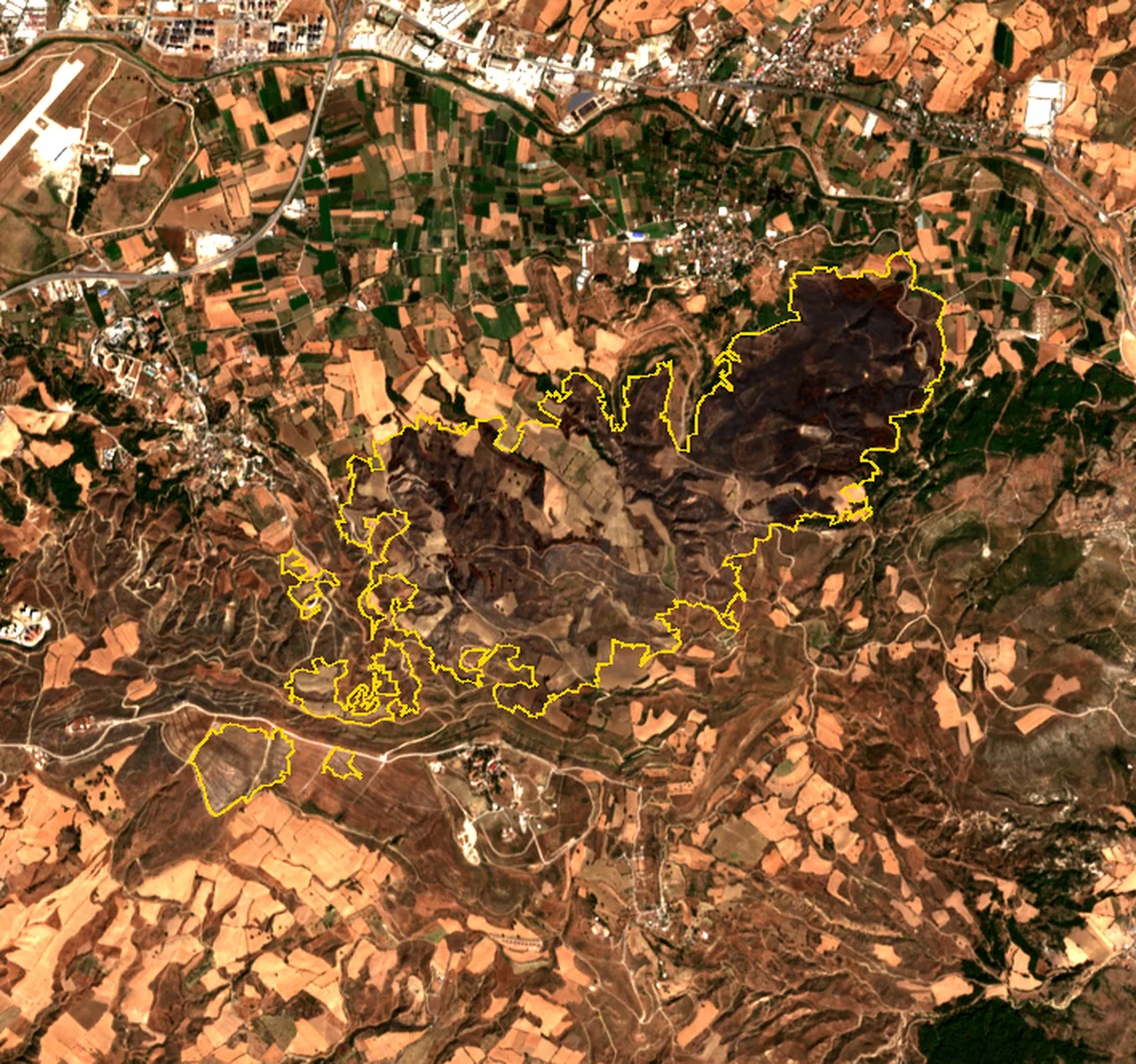
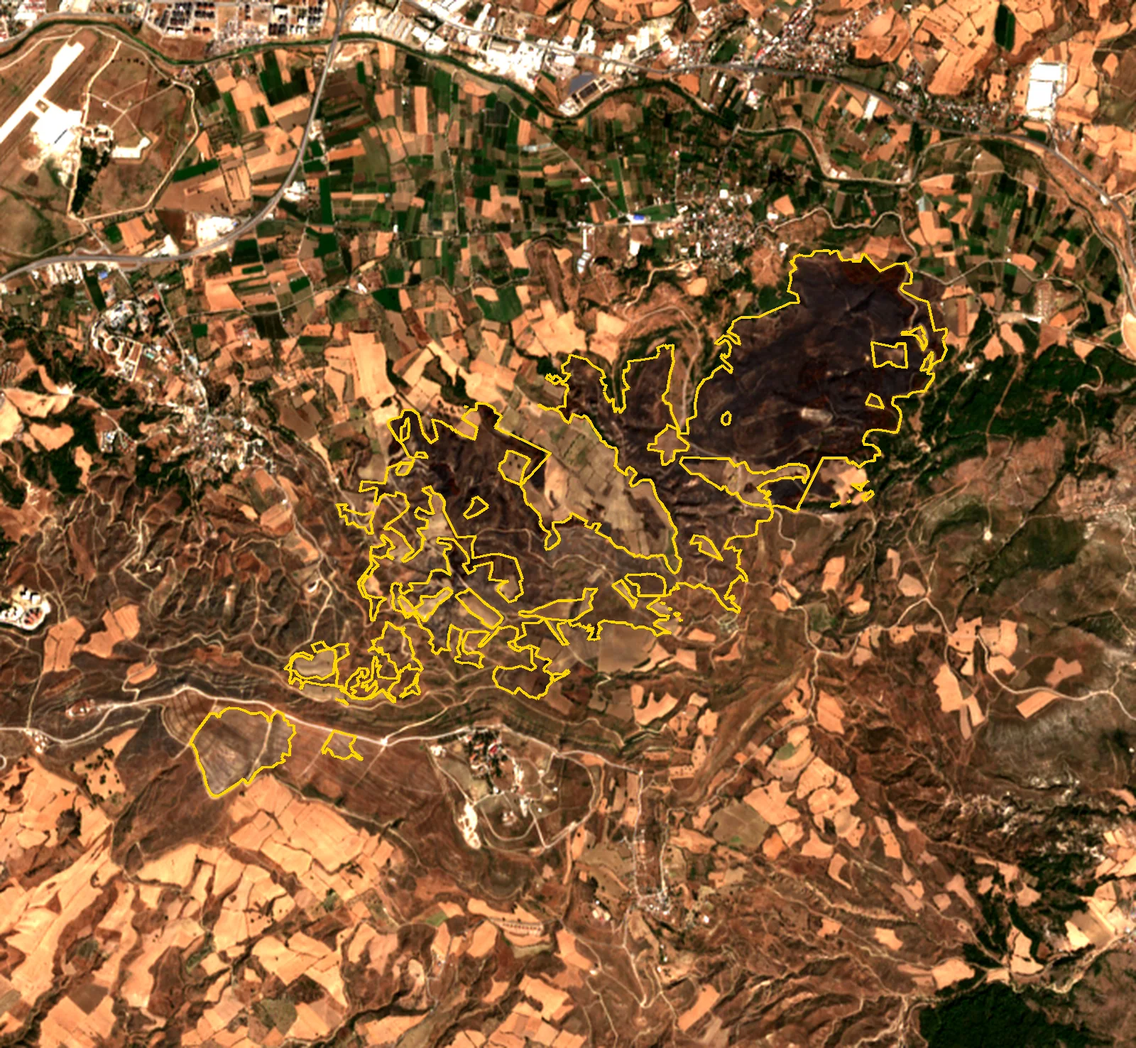
Saha sınırları: doğru KML'lerle yeniden üretildi (İzmir Aliağa, Çanakkale Saraycık) (#152)
- İzmir: Aliağa Bozköy–Kavaklıdere mevkii sınırı (93,8 ha), eski Karşıyaka sınır görseli kaldırıldı
- Çanakkale: Saraycık yanan alan sınırı, iç boşluklarıyla (382,4 ha)
- Yeni kapak görselleri eklendi; eski İzmir kapağı, canlı kayıt güncellenene kadar duruyor

diff --git a/lib/sites/boundary.ts b/lib/sites/boundary.ts
@@ -1,5 +1,5 @@
 /**
- * Saha sınırı görselleri: KMZ sınırı (sarı) Sentinel-2 uydu görüntüsü üstünde. Kaynak: outputs/saha-kmz (uydu.py).
+ * Saha sınırı görselleri: KMZ sınırı (sarı) Sentinel-2 uydu görüntüsü üstünde. Kaynak: outputs/saha-kmz-2 (sinir-cikar.py, uydu.py).
  * Saha sayfasında tam boy gösterilir (kırpılmaz). Yeni saha için görseli public/images/sahalar'a ekleyip buraya yazın.
  */
 export interface SiteBoundaryImage {
@@ -12,15 +12,15 @@ export interface SiteBoundaryImage {
 
 const BOUNDARIES: Record<string, SiteBoundaryImage> = {
   "izmir-proje-uygulama-sahasi": {
-    src: "/images/sahalar/izmir-karsiyaka-sinir-sentinel2-2026-10.webp",
+    src: "/images/sahalar/izmir-aliaga-sinir-sentinel2-2026-10.webp",
     width: 1600,
-    height: 1354,
+    height: 1638,
     capturedOn: "2026-10-05",
   },
   "canakkale-proje-uygulama-sahasi": {
     src: "/images/sahalar/canakkale-saraycik-sinir-sentinel2-2026-09.webp",
     width: 1600,
-    height: 1498,
+    height: 1476,
     capturedOn: "2026-09-21",
   },
 };
